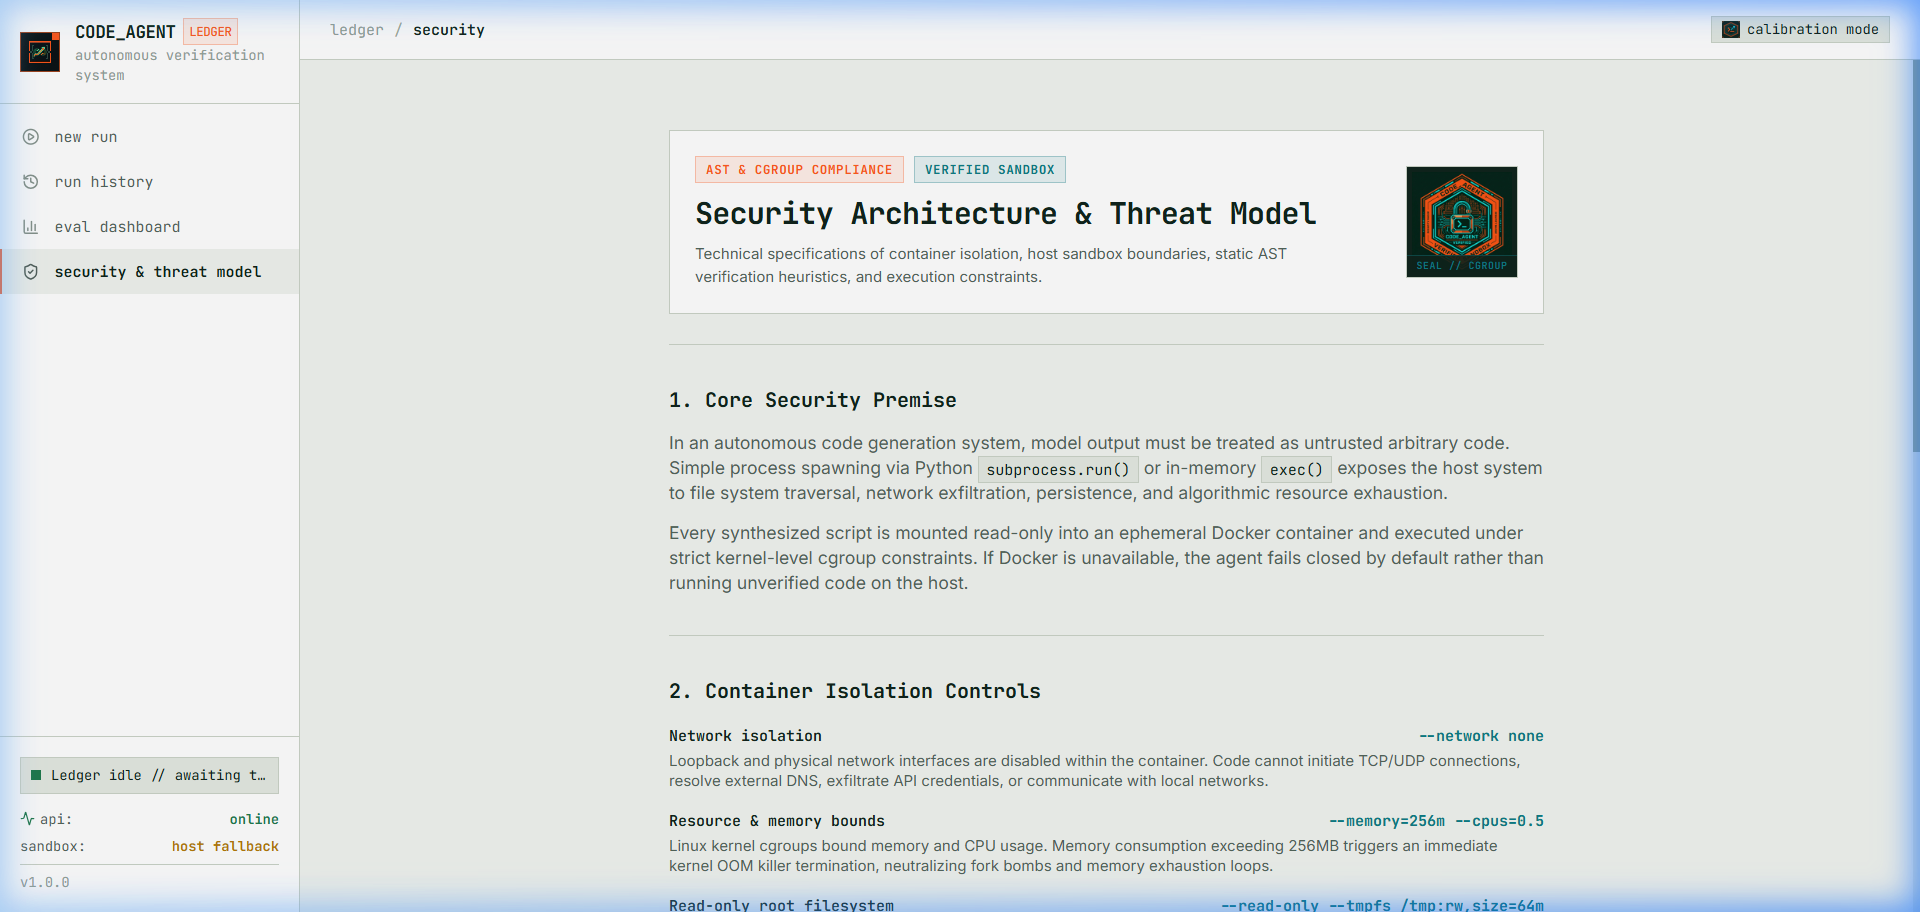
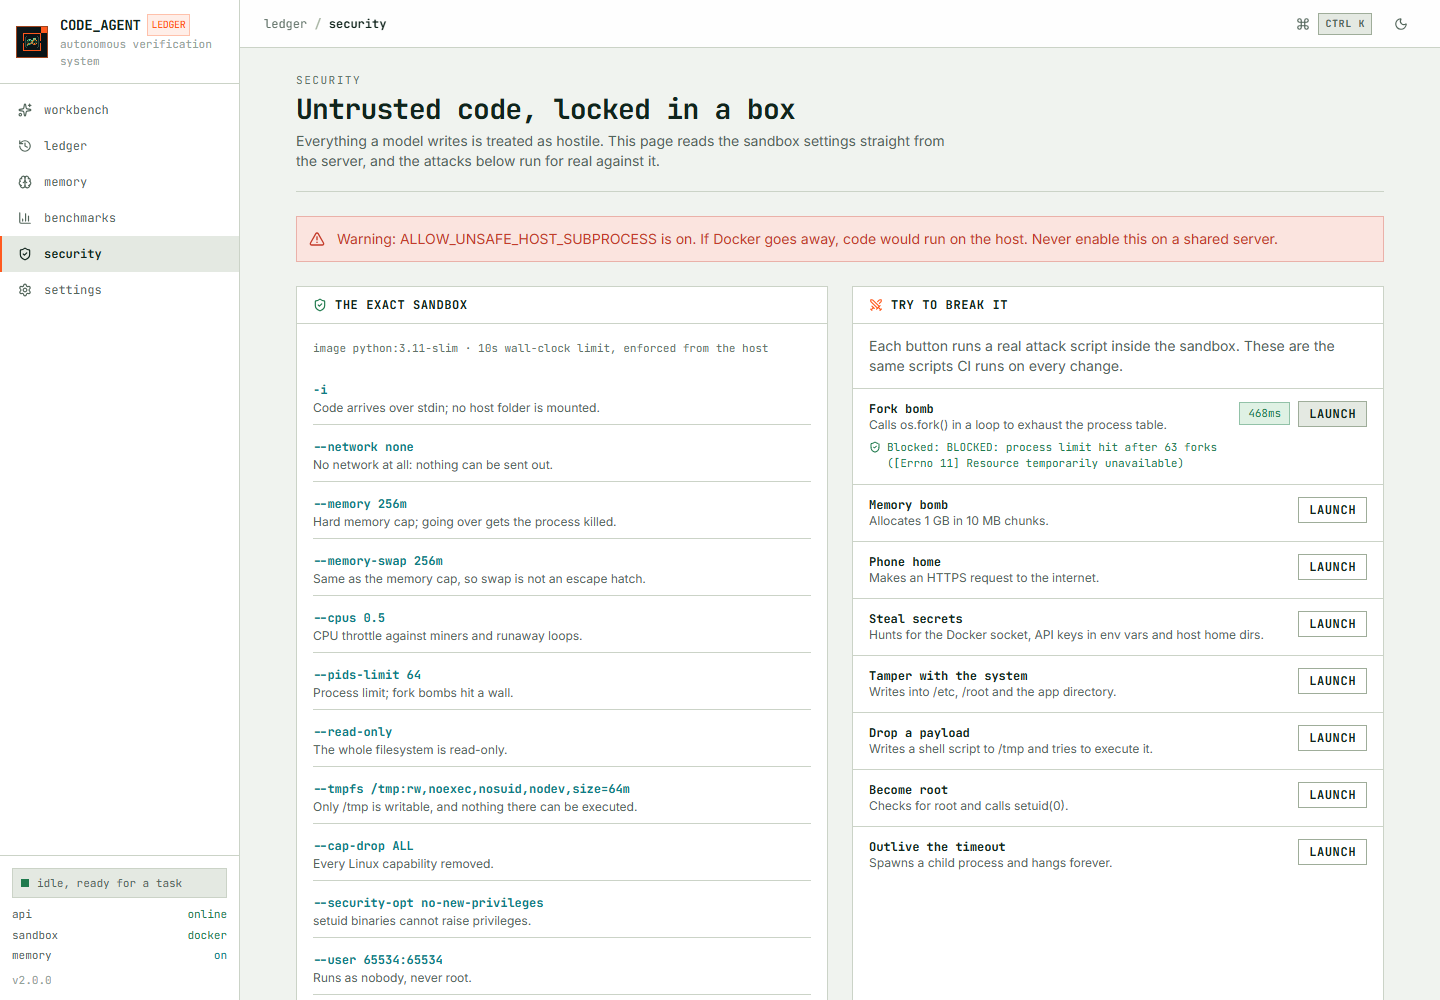
The README tour shows the new interface, captured from a real run
Every screenshot comes from the app running against Groq and the Docker
sandbox: the workbench, a run streaming live, the verification
certificate, the ledger, benchmarks, the security page mid-attack, night
shift and mobile.

diff --git a/README.md b/README.md
@@ -9,7 +9,7 @@
 [![CI](https://github.com/FarhanAaqil/self-improving-agent/actions/workflows/ci.yml/badge.svg)](https://github.com/FarhanAaqil/self-improving-agent/actions/workflows/ci.yml)
 ![Python](https://img.shields.io/badge/Python-3.11+-3776AB?style=flat&logo=python&logoColor=white)
 ![FastAPI](https://img.shields.io/badge/API-FastAPI-009688?style=flat&logo=fastapi&logoColor=white)
-![React](https://img.shields.io/badge/Frontend-React%2018%20%2B%20TS-61DAFB?style=flat&logo=react&logoColor=black)
+![React](https://img.shields.io/badge/Frontend-React%2019%20%2B%20TS-61DAFB?style=flat&logo=react&logoColor=black)
 ![Docker](https://img.shields.io/badge/Sandbox-Docker-2496ED?style=flat&logo=docker&logoColor=white)
 ![Groq](https://img.shields.io/badge/LLM-Groq%20%7C%20Qwen3%20%2F%20gpt--oss-F55036?style=flat)
 ![ChromaDB](https://img.shields.io/badge/Memory-ChromaDB-orange?style=flat)
@@ -17,61 +17,49 @@
 
 ---
 
-## 📸 Product Tour & Demos
+## 📸 Product Tour: "The Living Ledger"
 
-Explore the core workflows and interfaces of the CODE_AGENT verification ledger.
+The interface shows the agent thinking, remembering and verifying. Color carries meaning throughout: **orange** = working, **cyan** = memory, **green** = verified, **red** = broke and learning. All screenshots below are real captures of the app running against Groq and the Docker sandbox.
 
-### 1. Task Synthesis & Live Viewfinder (`/`)
-Interactive developer workspace where users submit task specifications with prompt quick-picks, model selection (served live from `/models`), and an active pipeline viewfinder.
+### 1. Workbench (`/`)
+Describe a task and press <kbd>Ctrl</kbd>+<kbd>Enter</kbd>. Template cards, a preview of what happens next, and (as you type) a cyan card that tells you when the agent remembers a similar task.
 
-<p align="center">
-  <img src="assets/screenshots/01-new-run.png" alt="New Run Workspace" width="100%" />
-</p>
+<p align="center"><img src="assets/screenshots/01-new-run.png" alt="Workbench" width="100%" /></p>
 
----
+### 2. Run Theater, live (`/runs/{id}`)
+Every step streams in over server-sent events: memory recall, spec tests written first, code, the sandbox run, the diagnosis when something breaks, and the repair. The agent narrates in plain first-person sentences.
 
-### 2. Autonomous Multi-Attempt Execution & Live Stepper
-Watch the multi-agent critique loop synthesize code, mount it into an ephemeral cgroup container, capture tracebacks upon failure, and automatically repair errors in real time.
+<p align="center"><img src="assets/screenshots/02-live-execution.png" alt="Live run" width="100%" /></p>
 
-<p align="center">
-  <img src="assets/screenshots/02-live-execution.png" alt="Live Execution Stepper" width="100%" />
-</p>
+### 3. Verified, with a certificate
+When every spec test passes, the run gets a stamp and a certificate: tests, traced coverage, bandit findings, complexity, a quality radar, and actions to download, fork and edit, or open a PR. Switch tabs to see a diff between attempts or the spec tests themselves.
 
----
+<p align="center"><img src="assets/screenshots/04-run-detail.png" alt="Verification certificate" width="100%" /></p>
 
-### 3. Audit Ledger & Historical Runs (`/history`)
-Comprehensive audit ledger of all generated programs with status filter pills, search bar, execution pass/fail metrics, quality ratings (out of 10), attempt counters, and pagination.
+### 4. Ledger (`/history`)
+Every run on the record, with server-side search, status filters and pagination. It switches to cards on phones.
 
-<p align="center">
-  <img src="assets/screenshots/03-run-history.png" alt="Audit Ledger and Run History" width="100%" />
-</p>
+<p align="center"><img src="assets/screenshots/03-run-history.png" alt="Ledger" width="100%" /></p>
 
----
+### 5. Benchmarks (`/eval`)
+Official HumanEval results run in the sandbox: single-shot baseline vs. the repairing agent, with 95% confidence intervals and a per-problem grid. You can start a new benchmark and watch its progress live.
 
-### 4. Deep Run Inspection, Quality Audit & Diff View (`/runs/{run_id}`)
-Examine individual attempts with stdout/stderr traces, AST security audit results, algorithmic complexity profiling, unified code diffs, one-click code download, and automated GitHub Pull Request creation.
+<p align="center"><img src="assets/screenshots/05-eval-dashboard.png" alt="Benchmarks" width="100%" /></p>
 
-<p align="center">
-  <img src="assets/screenshots/04-run-detail.png" alt="Deep Run Inspection" width="100%" />
-</p>
+### 6. Security (`/security`)
+The exact sandbox flags, read live from the server, each explained in plain words. **Try to break it** runs real attack scripts (fork bomb, memory bomb, secret theft, /tmp execution, privilege escalation, and more) and shows how each one was stopped.
 
----
+<p align="center"><img src="assets/screenshots/06-security-threat-model.png" alt="Security" width="100%" /></p>
 
-### 5. HumanEval Benchmark Dashboard (`/eval`)
-Benchmark telemetry comparing a single-shot baseline with the repairing agent on official HumanEval, with confidence intervals.
+### 7. Night shift & mobile
+A dark theme built from the brand ink, and a layout that works down to phone width.
 
 <p align="center">
-  <img src="assets/screenshots/05-eval-dashboard.png" alt="Evaluation Dashboard" width="100%" />
+  <img src="assets/screenshots/07-night-shift.png" alt="Dark theme" width="72%" />
+  <img src="assets/screenshots/08-mobile.png" alt="Mobile" width="24%" />
 </p>
 
----
-
-### 6. Security Architecture & Threat Model (`/security`)
-Official cryptographic sandbox specification detailing kernel cgroups, network disconnection (`--network none`), read-only root filesystems, and static AST security audits.
-
-<p align="center">
-  <img src="assets/screenshots/06-security-threat-model.png" alt="Security Architecture and Threat Model" width="100%" />
-</p>
+Also in the app: **Memory** (`/memory`) to browse, search, pin and delete what the agent learned; **Settings** for theme, motion, default model and API key; and a <kbd>Ctrl</kbd>+<kbd>K</kbd> command palette.
 
 ---
 
